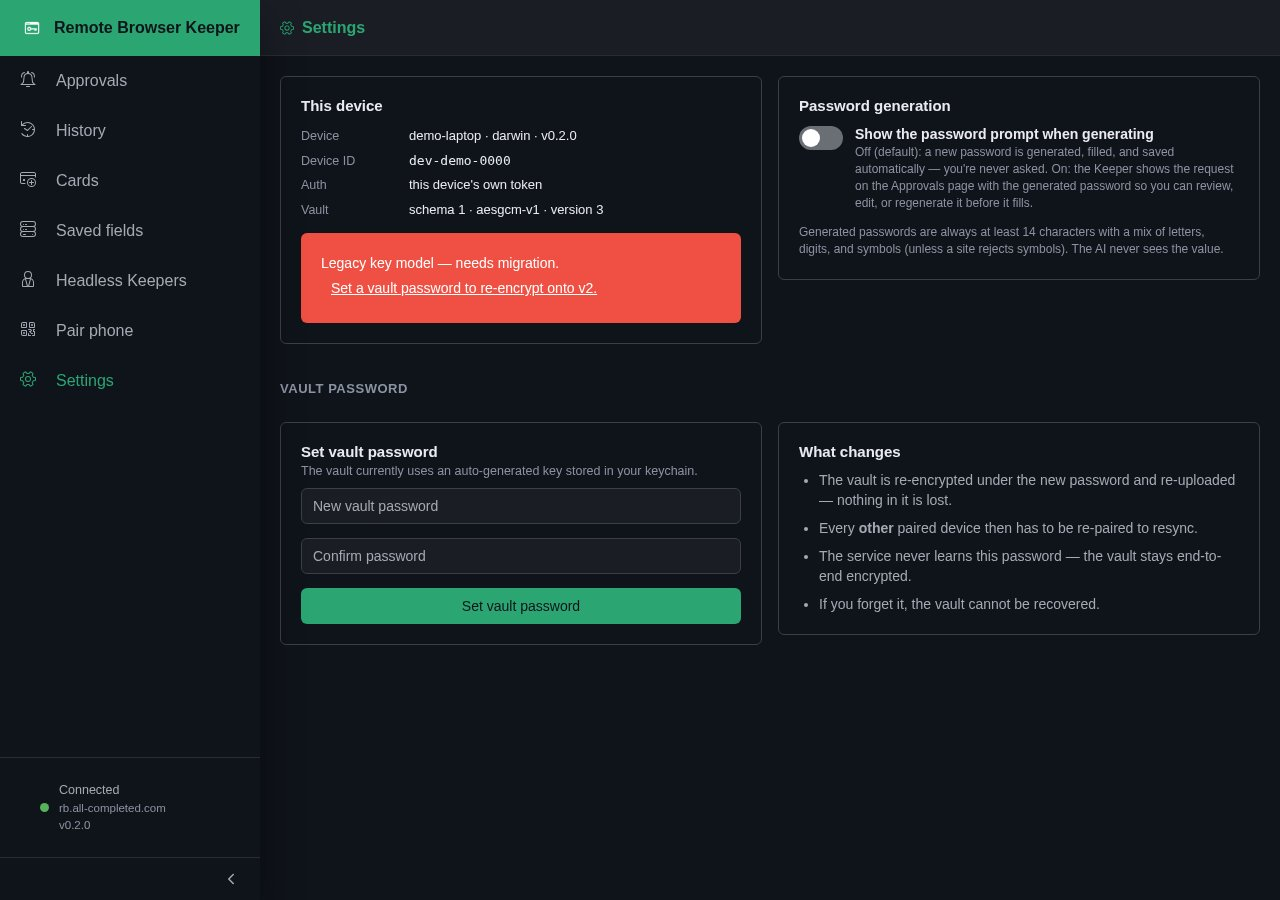
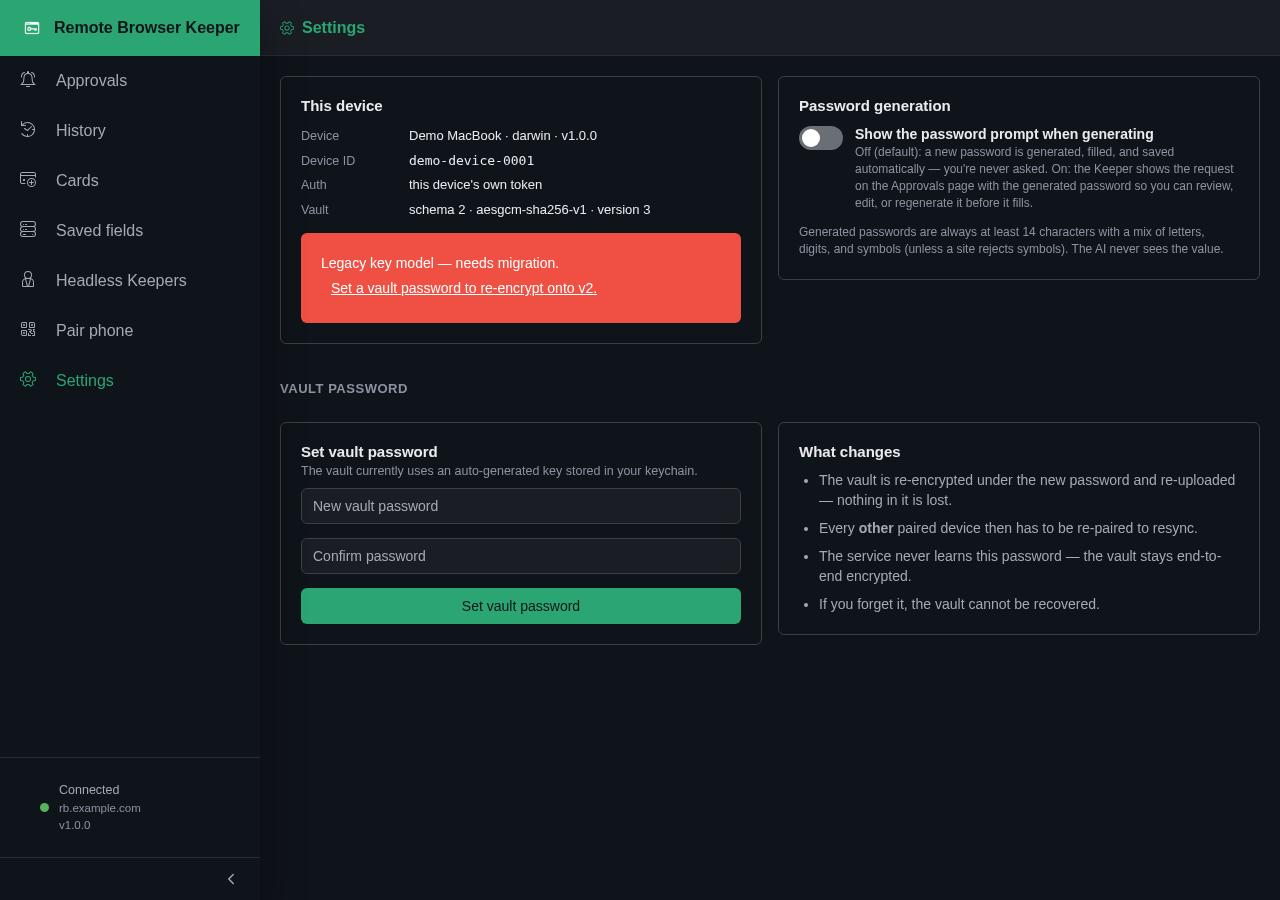
Tray: one Settings… entry — drop "Set vault password…" (issue #36)
The vault password is a section of Settings now, so the tray menu has a
single Settings… item opening the merged page. The legacy-v1 warning item,
the Approvals/Settings links and old `vaultpw` callers still land on the
section. Tests assert the item is absent and the surviving entry points
resolve; docs no longer name the removed item. Screenshots re-taken from
this build.

Changed region(s): [[0.3125, 0.1244, 0.4688, 0.1867], [0.4062, 0.2178, 0.5, 0.2489], [0.0625, 0.8711, 0.125, 0.9022]]

diff --git a/ui/pages/SettingsPage.jsx b/ui/pages/SettingsPage.jsx
@@ -46,8 +46,8 @@ function Row({ label, children, mono }) {
 // there the id IS the key, see src/vault.js).
 //
 // The vault's own password is a section of this page (issue #36; it was the Vault
-// password page): `section` "vault-password" — what the `vaultpw` target, the tray's
-// "Set vault password…" and the legacy-key links open — scrolls it into view and puts the
+// password page): `section` "vault-password" — what the old `vaultpw` key, the tray's
+// legacy-v1 warning and the legacy-key links open — scrolls it into view and puts the
 // caret in its first field. `sectionSeq` changes on every navigation, so asking again
 // while already here scrolls again.
 export default function SettingsPage({ go, section, sectionSeq }) {

diff --git a/src/main.js b/src/main.js
@@ -2056,8 +2056,8 @@ function updateTray() {
     { label: "History…", click: () => openPage("history") },
     { type: "separator" },
     { label: "Pair phone…", click: () => openPage("pair") },
-    { label: "Set vault password…", click: () => openPage("settings#vault-password") },
     { label: "Headless Keepers…", click: () => openPage("headless") },
+    // One Settings entry: the vault's own password is a section of it (issue #36).
     { label: "Settings…", click: () => openPage("settings") },
     ...(vaultNeedsRepair ? [{ label: "⚠ Vault: re-pair to update password", enabled: false }] : []),
     // A device left on the v1 key model is a real exposure (v1's stored id IS the key),

diff --git a/docs/file-structure.md b/docs/file-structure.md
@@ -74,7 +74,7 @@ the sidebar moves between them in place.
 | `pages/ApprovalsPage.jsx` | what is waiting (*N fill requests and M headless Keepers waiting* + **Show approval window**) and the tray's warnings. Requests themselves are answered in the approval window, below. |
 | `pages/HistoryPage.jsx` | the **History** window — one list from this device's log **and** the service's ([details](#request-history--one-list-from-two)). |
 | `pages/CardsPage.jsx`, `SavedFieldsPage.jsx`, `HeadlessPage.jsx`, `PairPage.jsx`, `SettingsPage.jsx` | the windows of the same names. |
-| `components/VaultPassword.jsx`, `lib/nav.js` | the **Vault password** window — now the *Vault password* section of Settings (issue #36). Navigation targets are a page key or `page#section`; the old `vaultpw` key (tray, older callers) is an alias of `settings#vault-password`, in `src/main.js` (`pageTarget`) and `lib/nav.js` (`resolveTarget`) alike — pinned by `test/nav.test.mjs` and `test/mainwindow.test.mjs`. |
+| `components/VaultPassword.jsx`, `lib/nav.js` | the **Vault password** window — now the *Vault password* section of Settings (issue #36). Navigation targets are a page key or `page#section`; the old `vaultpw` key (retired page key, still accepted from older callers) is an alias of `settings#vault-password`, in `src/main.js` (`pageTarget`) and `lib/nav.js` (`resolveTarget`) alike — pinned by `test/nav.test.mjs` and `test/mainwindow.test.mjs`. |
 | `components/ImageViewer.jsx` | the **full-size screenshot** window — now an in-app full-size modal. |
 | `components/ListFilters.jsx`, `lib/search.js` | the **search box and filter pickers** of every long list (History, Saved fields, Cards, Headless Keepers — issue #31): `PageHeader`'s filter row, filtering client-side what the page already holds (every word of the query must appear; pinned by `test/search.test.mjs`). |
 
@@ -473,7 +473,7 @@ paired Keeper through the service's `/api/vault` endpoint.
 `~/.remote-browser-keeper/<base-url>/vault-key.json`, **OS-encrypted at rest** (Electron
 `safeStorage` → macOS Keychain / Windows DPAPI / libsecret), holds `{ password, format,
 salt? }`. The Keeper generates a high-entropy password on first use; the user may replace
-it with their own via **Set vault password…** (which re-encrypts + re-uploads the vault,
+it with their own in **Settings… → Vault password** (which re-encrypts + re-uploads the vault,
 after which other devices must re-pair). This file never leaves the machine except as the
 vault password inside a pair QR.
 

diff --git a/README.md b/README.md
@@ -122,7 +122,7 @@ from outside:
 | `ok` | on a v2 key model, vault readable | — |
 | `no_key` | this device holds no vault key (never paired, or cleared) | pair it |
 | `needs_repair` | a vault exists but this device can't decrypt it (`VaultKeyMismatch`) | re-pair it |
-| `legacy_v1` | still on legacy `aesgcm-sha256-v1` | **migrate** — Set vault password… |
+| `legacy_v1` | still on legacy `aesgcm-sha256-v1` | **migrate** — Settings… → Vault password |
 
 `secret_id` is the opaque, domain-separated id of the vault this device can open
 (`sha256("rbvault-id-v2" ‖ master)`), so it is safe to publish and lets the service group
